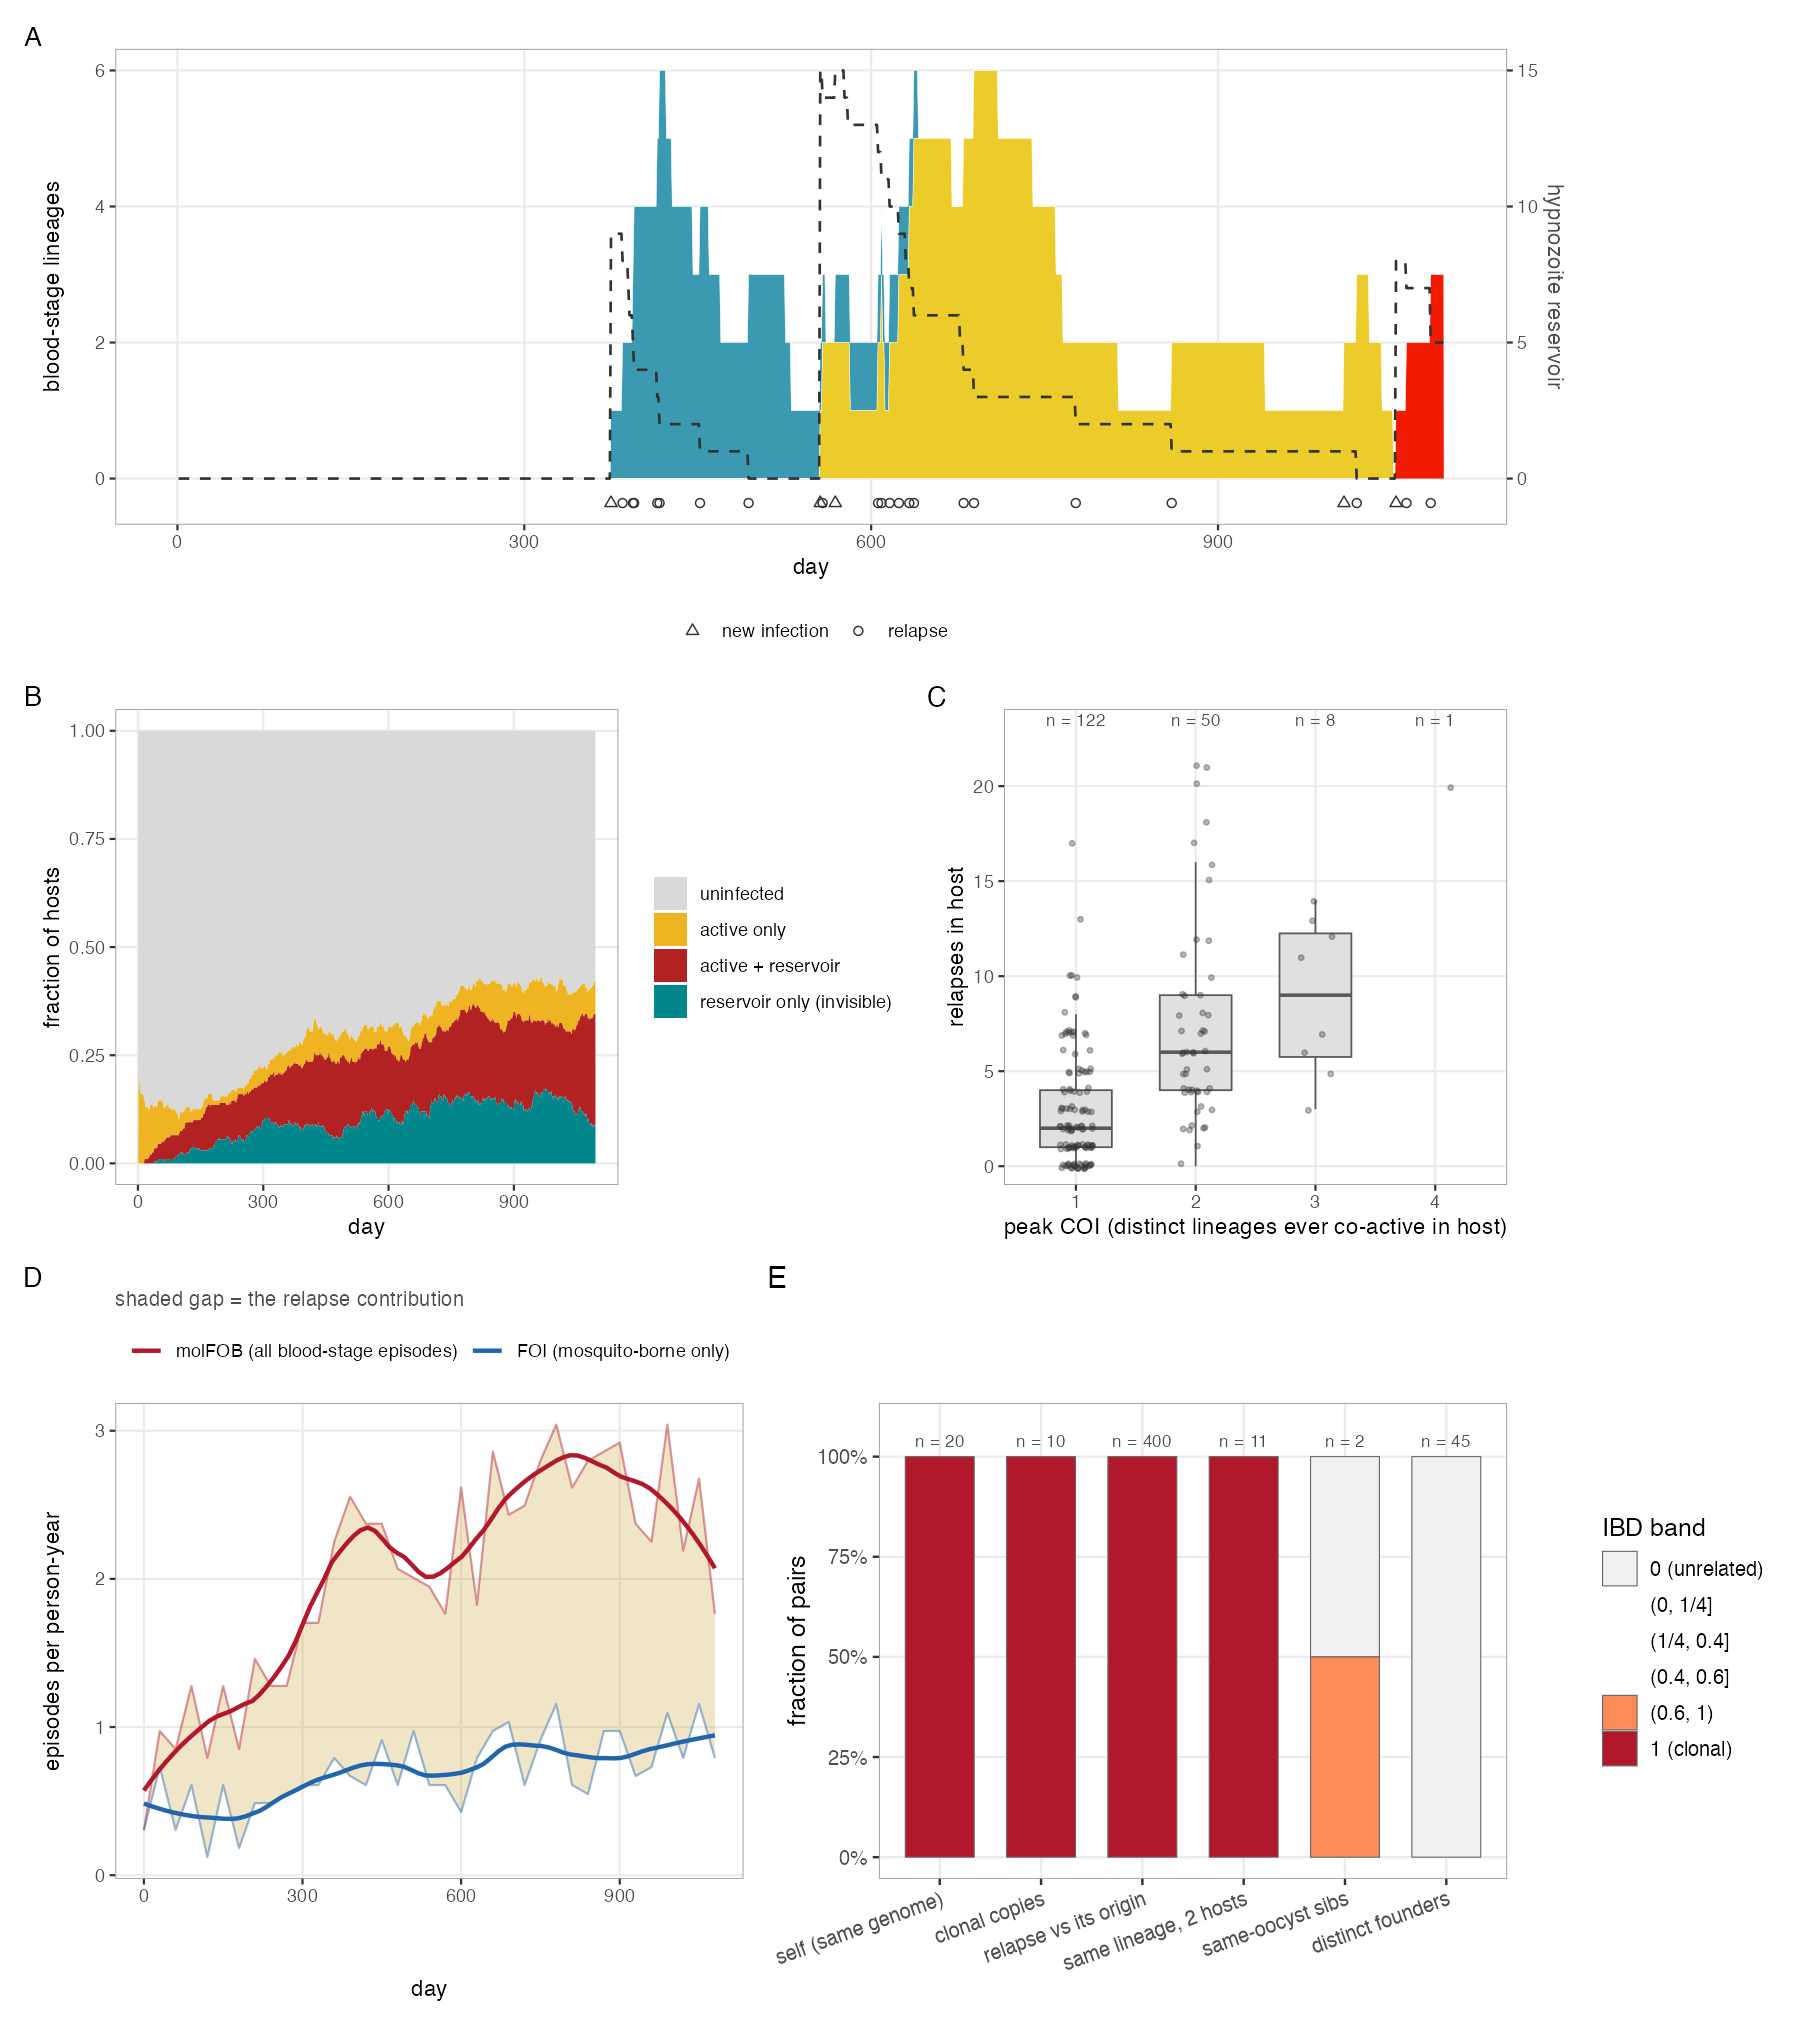
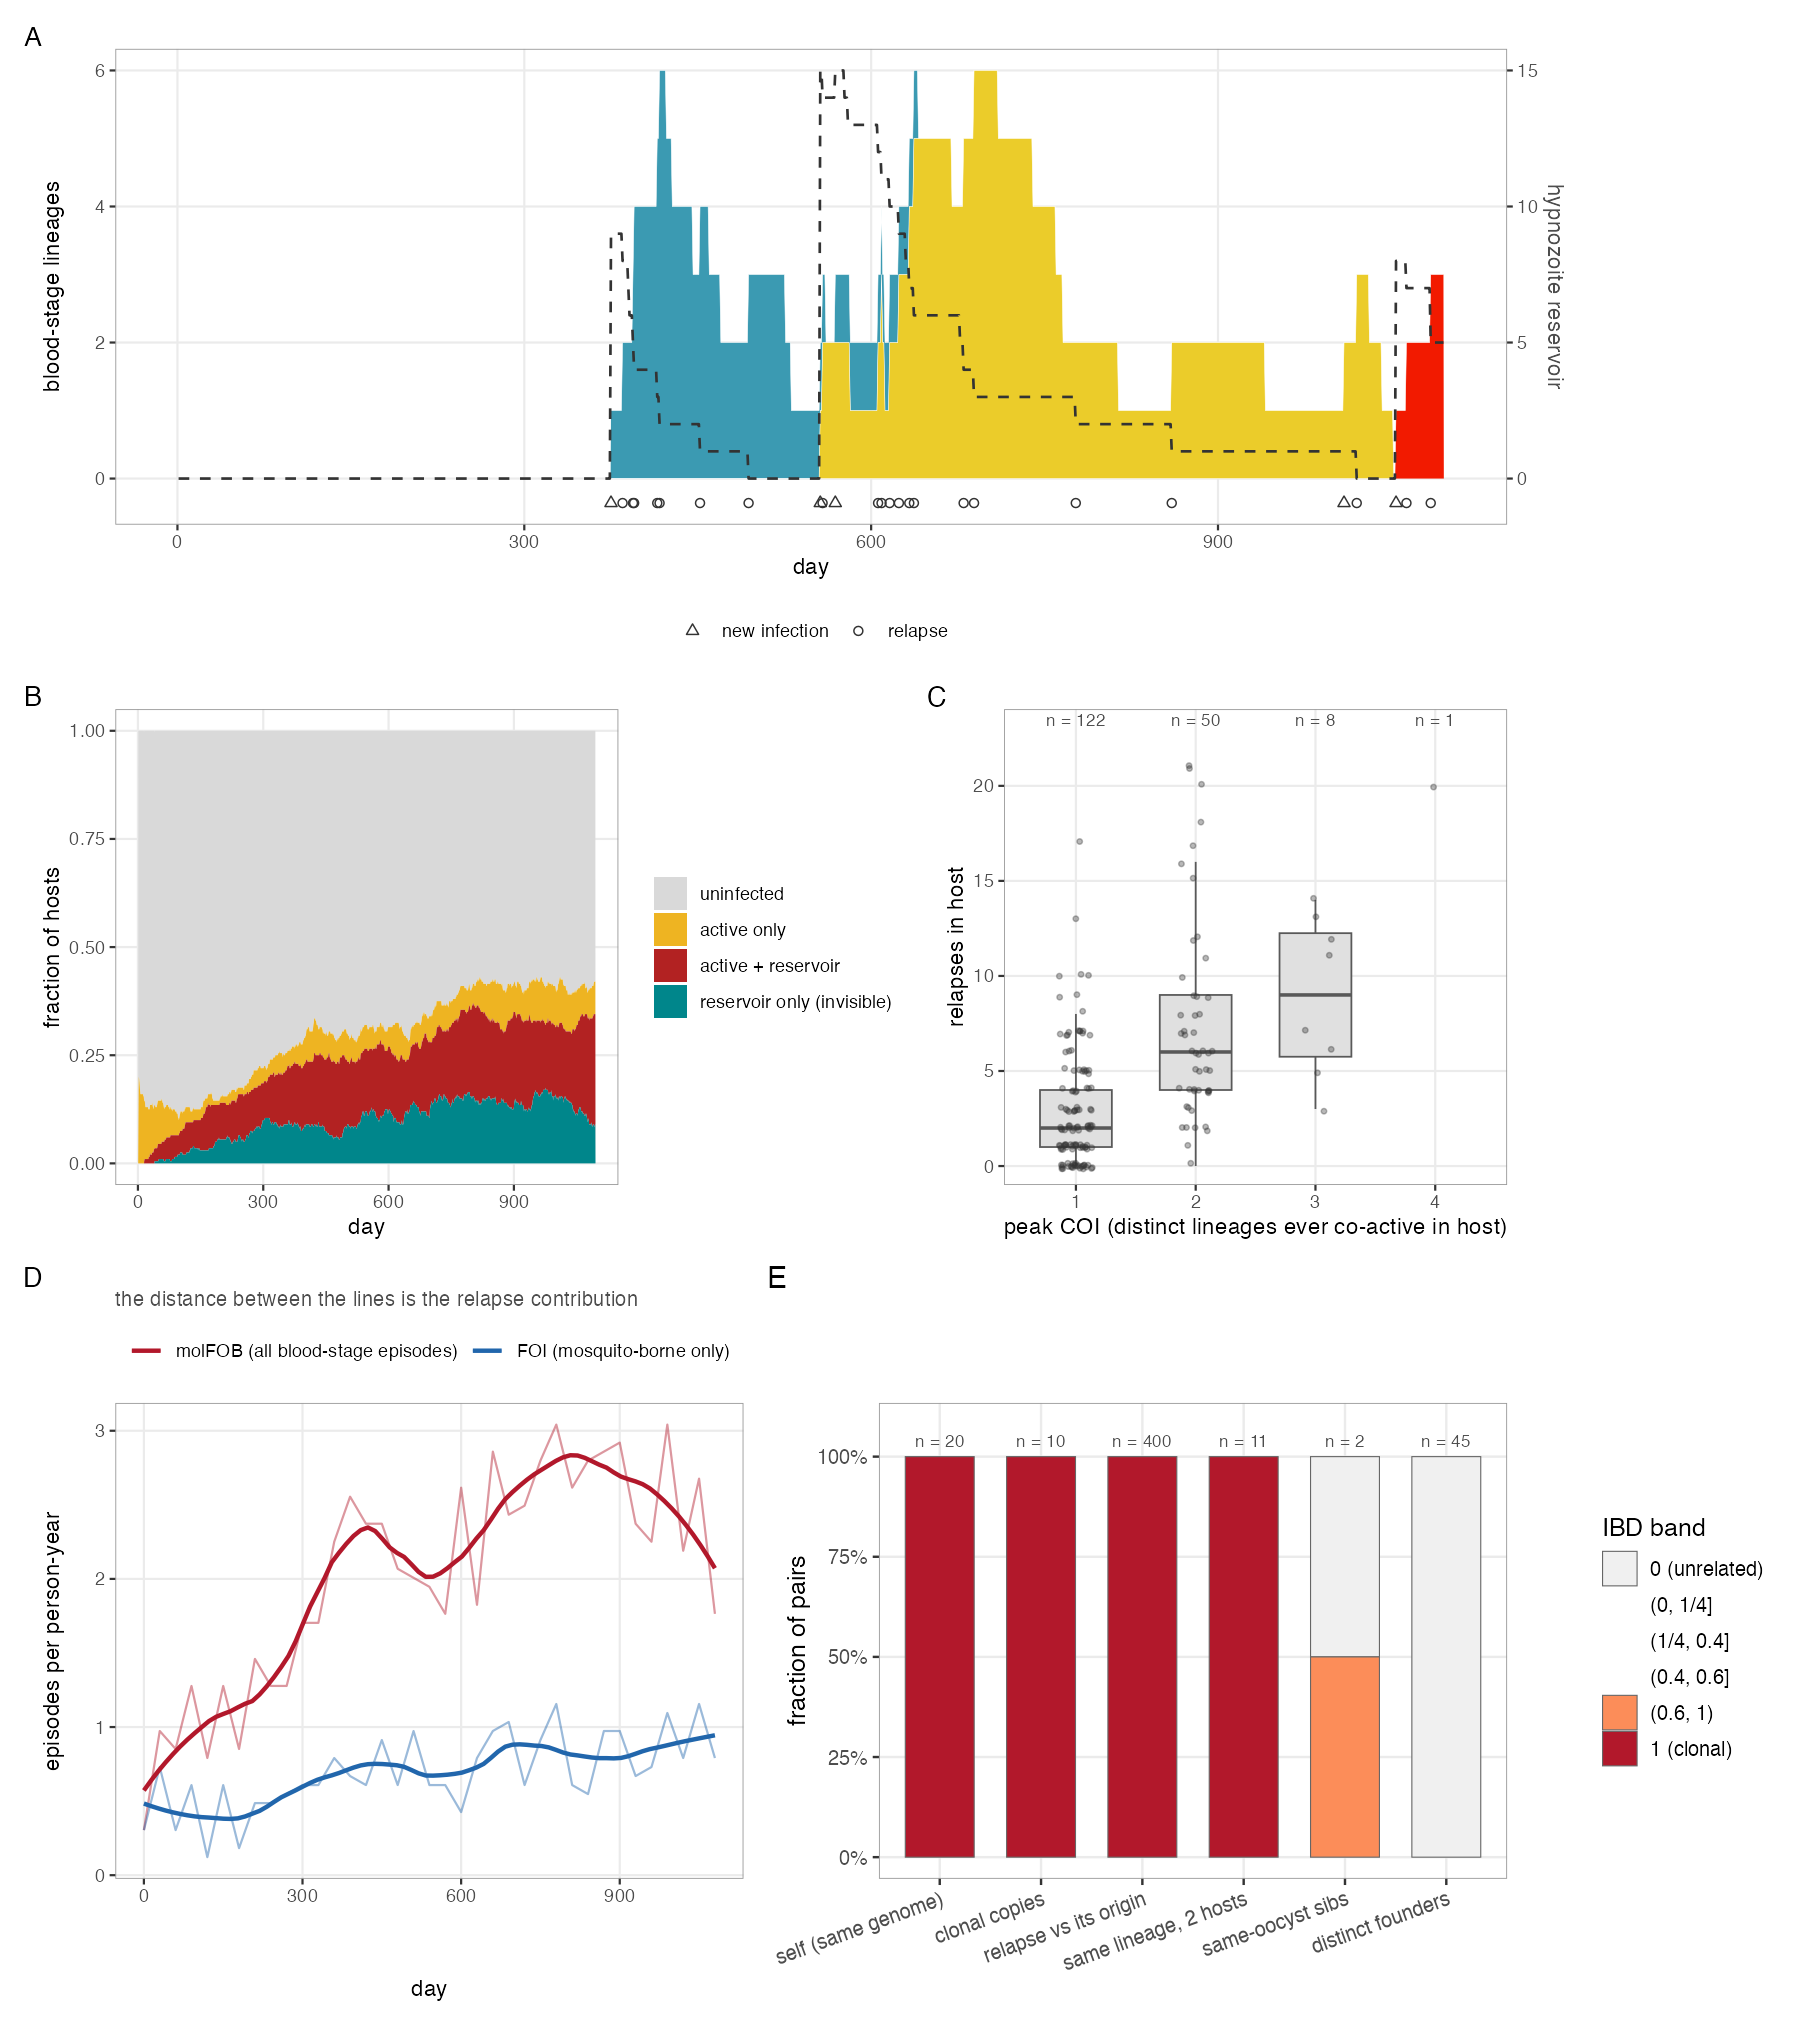
Drop the shaded ribbon from plot_force_of_infection; lines only

diff --git a/MODEL_DESCRIPTION.md b/MODEL_DESCRIPTION.md
@@ -22,7 +22,8 @@ relapses (circles). **B** population host-state composition over time — note t
 *reservoir-only* band, which is invisible to any blood survey. **C** peak COI against the number
 of relapses a host goes on to experience (boxes drawn only where there are enough hosts; every
 level labelled with its n). **D** **molFOB vs FOI** — the compound force of blood-stage infection
-against the mosquito-borne force alone; the shaded gap is the relapse contribution. **E** the
+against the mosquito-borne force alone; the distance between the lines is the relapse
+contribution. **E** the
 realised IBD ladder, as the composition of each relationship class across relatedness bands.
 
 Panel D carries the central vivax quantity: **molFOB 2.02 vs FOI 0.69 episodes per person-year,
